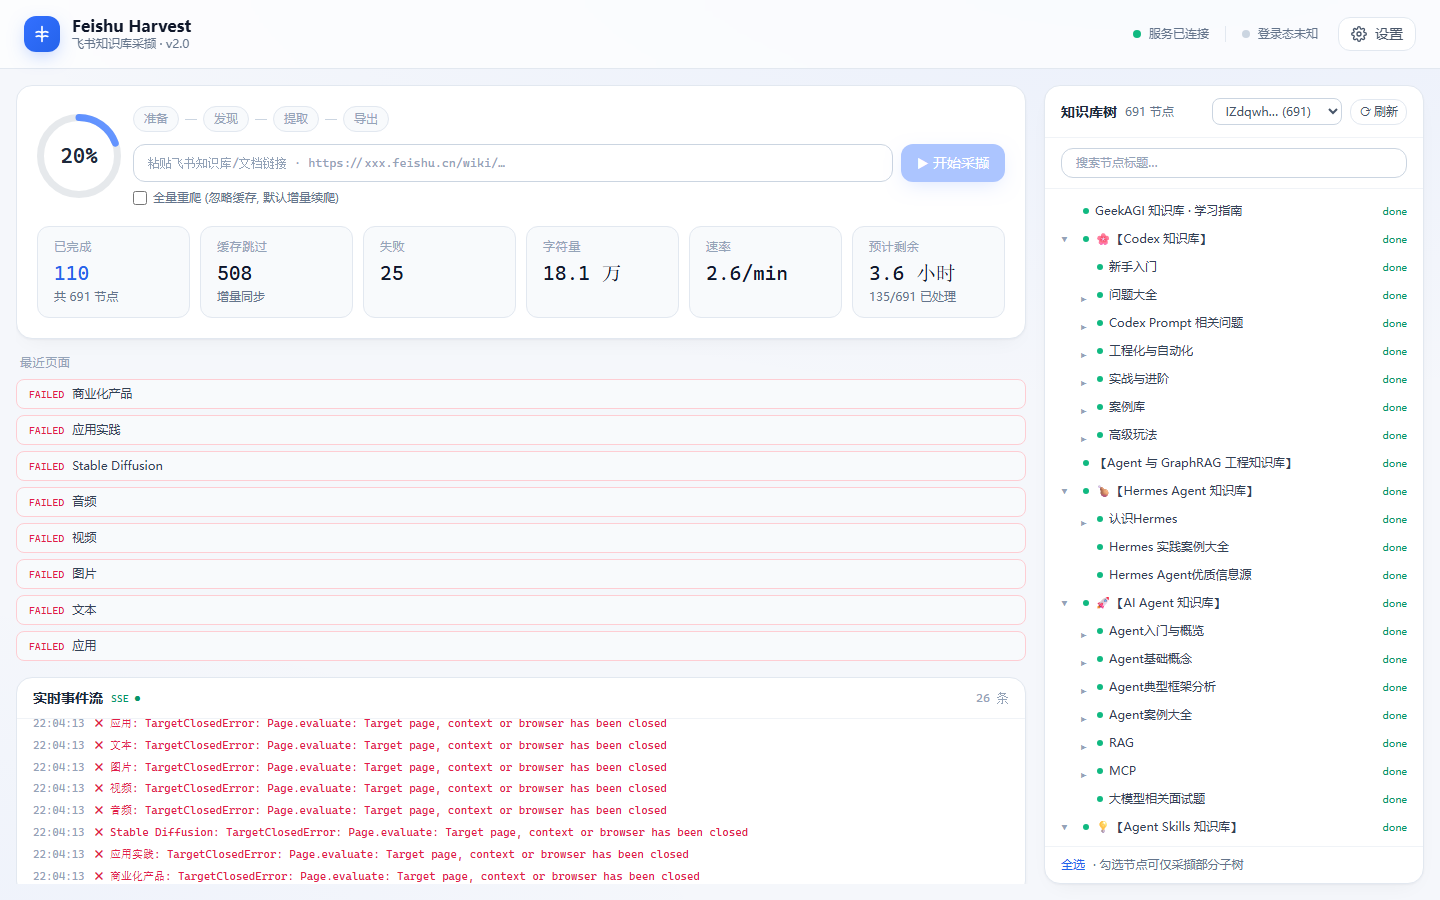
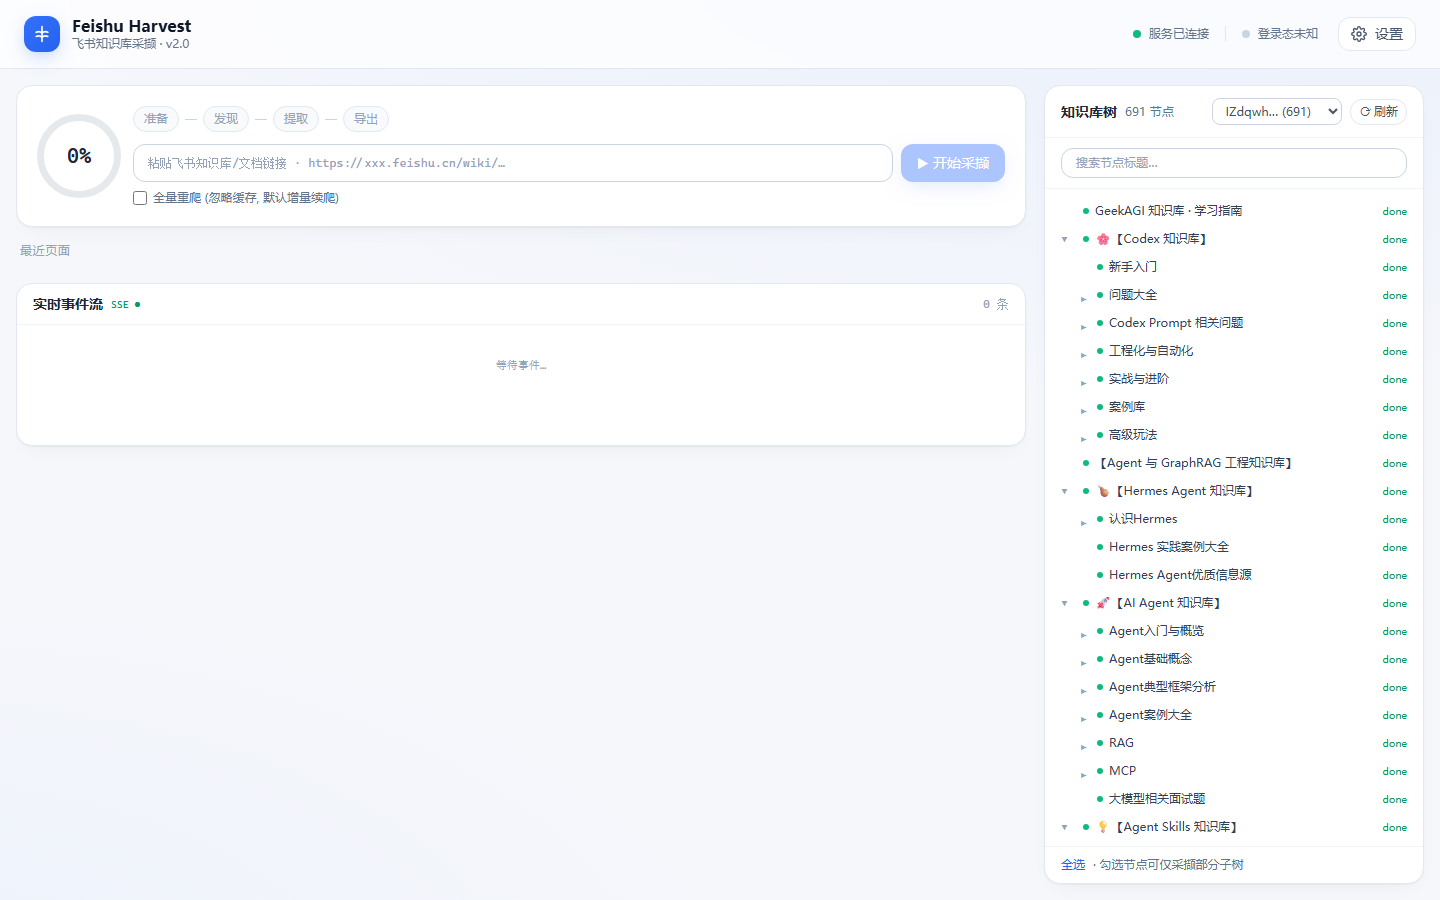
docs: 根 README 重写为完整图文介绍（界面截图 + 功能清单 + 实测战报 + 16 项设置），新增设置抽屉截图

diff --git a/README.md b/README.md
@@ -1,25 +1,91 @@
-# Feishu Cloud Docs Extraction — 飞书知识库采撷
+# Feishu Harvest — 飞书知识库采撷 v2.0
 
-将你有权访问的飞书知识库/文档导出为本地 **Markdown / PDF**。
+将你有权访问的飞书知识库/文档优雅地导出为本地 **Markdown / PDF**。
+浏览器打开即用的控制台：**多 Tab 并行爬取 · AIMD 自适应节流 · SQLite 断点续爬 · 实时仪表盘**。
 
-> **v2 全新重构版位于 [`feishu-harvest/`](feishu-harvest/)** —— 六层解耦架构、多 Tab 并行、
-> AIMD 自适应节流、SQLite 断点续爬、实时仪表盘。已通过 691 节点 / 5 层深度的知识库实测。
->
-> 旧版 v22 单文件脚本已归档至 `_archive_v22/`（本地保留，不入库）。
+> 深度文档：架构与拓扑 [feishu-harvest/docs/ARCHITECTURE.md](feishu-harvest/docs/ARCHITECTURE.md) ·
+> 效率/风控/稳定性策略与开源方案对照 [feishu-harvest/docs/STRATEGY.md](feishu-harvest/docs/STRATEGY.md)
+
+---
+
+## 界面预览
+
+**主控制台**（任务卡片 + 阶段流 + 统计格 + 实时事件流 + 知识库树）：
+
+![主控制台](feishu-harvest/docs/ui-preview.png)
+
+**运行设置**（16 项全部可视化，均真实接线）：
+
+![运行设置](feishu-harvest/docs/ui-settings.png)
+
+---
+
+## 为什么是它（实测战报：GeekAGI 知识库终极压测）
+
+| 指标 | 结果 |
+|---|---|
+| 节点发现 | **691 个**（老版本同库只能发现 270 个，漏一半以上） |
+| 层级深度 | **5 层全覆盖**（L1:25 / L2:120 / L3:425 / L4:109 / L5:2） |
+| 内容规模 | 716 个 md + 2563 张图片 |
+| 飞书专有格式 | 24+ 多维表格 API 直采（真实表格数据）、文件管理页、附件真实下载、内嵌表格块、iframe/视频 |
+| 断点续爬 | 两次网络中断 + 一次浏览器崩溃，**零数据丢失**，增量补齐全部缺口 |
+| 合并 PDF | 1341 页 **38.9 MB**（439MB 原图经降采样 + JPEG 压缩） |
+
+## 核心功能
+
+| 功能 | 说明 |
+|---|---|
+| 扫码登录 | 首次弹出浏览器扫码，登录态本地持久化，可一键清除切换账号 |
+| 深层级发现 | 虚拟滚动深度展开 + 逐章节 BFS，实测覆盖 5 层（老版本只到 2 层） |
+| 全类型提取 | 文档 / 多维表格(API 直采) / 文件管理页 / 附件节点 / 内嵌表格(base_refer)；不支持类型生成占位说明 |
+| 层级输出 | 目录树与导航树一一对应；每个知识库独立子目录，多库互不污染 |
+| 增量同步 | 已完成节点哈希缓存，二跑只爬新/改页面；中断自动从断点续爬 |
+| 韧性自愈 | Tab 崩溃自动换新页；断网错误页识别为失败待重试（永不写入假内容） |
+| 内容保真 | 代码块自愈 · 导航壳剔除 · 零宽水印清洗 · 飞书页面链接自动转纯文本（本地打开必报错） |
+| 实时仪表盘 | SSE 推送：阶段流 · 进度环 · 速率/ETA · 节点树状态点 · 事件日志 |
+| 合并 PDF | 目录导航 + A4 排版 + 代码高亮；图片自动降采样转 JPEG，体积可控 |
+| 自包含导出 | 可选：base64 内嵌图片副本（单文件可迁移），原件保持轻量 |
 
 ## 快速开始
 
 ```bash
 cd feishu-harvest
-# Windows: 双击 启动.bat   macOS/Linux: ./start.sh
+# Windows: 双击 启动.bat    macOS / Linux: ./start.sh
 ```
 
-详见 **[feishu-harvest/README.md](feishu-harvest/README.md)** 与设计文档
-[docs/ARCHITECTURE.md](feishu-harvest/docs/ARCHITECTURE.md) ·
-[docs/STRATEGY.md](feishu-harvest/docs/STRATEGY.md)。
+脚本自动装依赖 → 启动服务 → 打开控制台 `http://127.0.0.1:19527`。
+
+1. 首次使用在弹出浏览器中**扫码登录**飞书；
+2. 控制台粘贴知识库任意页面链接 → 点「开始采撷」；
+3. 中断后直接重新点击开始，自动增量续爬。
+
+## 16 项可控设置（设置抽屉）
+
+| 分组 | 设置项 |
+|---|---|
+| 并发与节奏 | 并发 Tab 数(1-6) · 基础导航间隔 · 退避上限 · AIMD 自适应开关 |
+| 超时与重试 | 导航超时 · 渲染等待上限 · 提取重试次数 · 图片并发数 |
+| 内容类型 | 无法提取类型策略(占位/跳过) · 多维表格全视图导出 · 视频输出地址 |
+| 导出与输出 | 导出格式(md/pdf) · PDF 图片宽度 · 自包含副本 · 附件下载 · 启动前清空 · 输出目录 |
+
+## 项目结构
+
+```
+feishu-harvest/
+├── docs/                # ARCHITECTURE.md · STRATEGY.md · 界面截图
+├── backend/harvest/     # Python + FastAPI + Playwright
+│   ├── core/            # 节流/熔断纯机制 (AIMD · CSPRNG 抖动 · 令牌桶)
+│   ├── store/           # SQLite WAL 节点状态机 (断点续爬/增量)
+│   ├── transport/       # Playwright 生命周期 + PagePool (Tab 崩溃自愈)
+│   ├── legacy/          # 提取内核 (唯一知道飞书 DOM 的层)
+│   ├── pipeline/        # 发现/提取/写盘/PDF 编排
+│   └── api/             # FastAPI + SSE 薄适配层
+├── frontend/            # React 18 + Vite + Tailwind 仪表盘
+└── 启动.bat / start.sh
+```
 
 ## 免责声明
 
 - 仅抓取当前登录账号**有权查看**的内容，不绕过任何权限控制；
-- 不使用代理池 / IP 轮换 / 指纹伪装，仅采用礼貌爬取（限速 + 退避 + 增量）；
+- 不使用代理池 / IP 轮换 / 指纹伪装 —— 礼貌爬取（限速 + 退避 + 增量）是唯一策略；
 - 仅供个人学习使用，内容版权归原作者；禁止大规模批量爬取或商用传播。

diff --git a/feishu-harvest/README.md b/feishu-harvest/README.md
@@ -8,6 +8,8 @@
 
 ![控制台预览](docs/ui-preview.png)
 
+![运行设置](docs/ui-settings.png)
+
 ---
 
 ## 实测战报（终极压测：GeekAGI 知识库）
